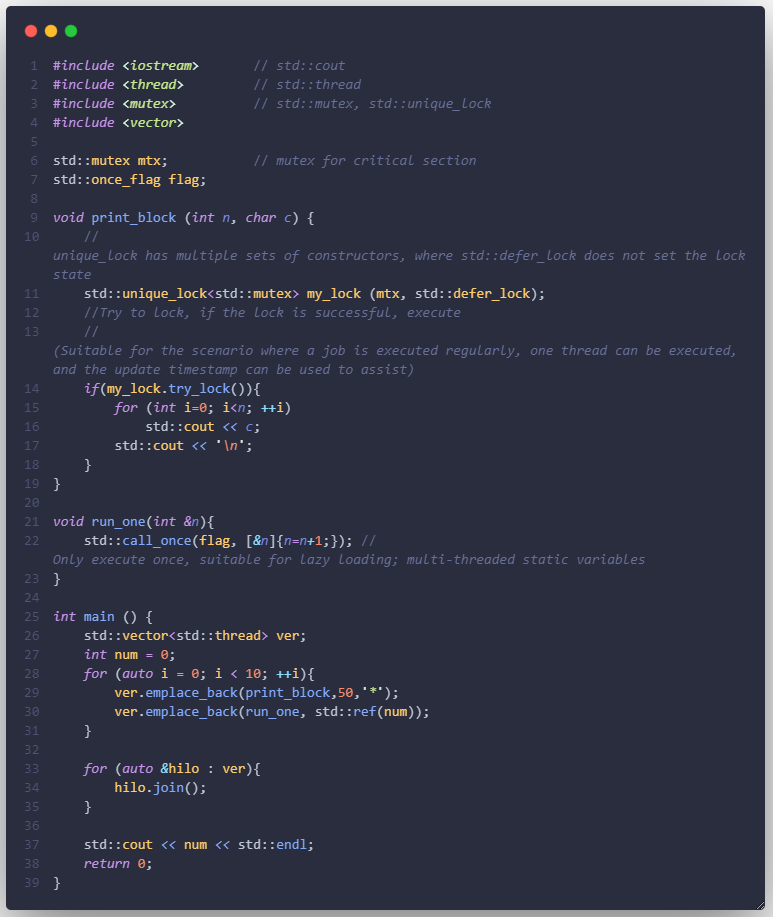
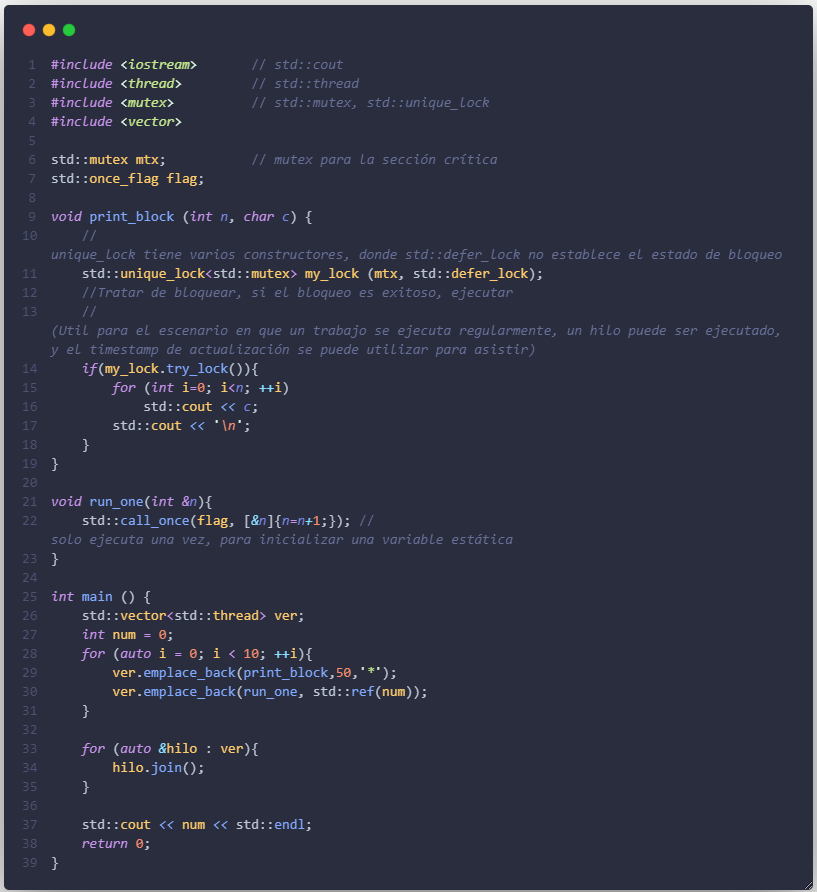
Updating SO labs repo

diff --git a/lab09/code8.cpp b/lab09/code8.cpp
@@ -1,0 +1,55 @@
+#include <chrono>
+#include <iostream>
+#include <mutex>
+#include <random>
+#include <thread>
+#include <utility>
+#include <vector>
+
+typedef long long ll;
+typedef unsigned long long ull;
+
+constexpr long long size= 100000000;   
+
+constexpr long long firBound=  25000000;
+constexpr long long secBound=  50000000;
+constexpr long long thiBound=  75000000;
+constexpr long long fouBound= 100000000;
+    
+std::mutex myMutex;
+
+void sumUp(ull& sum, const std::vector<int>& val, ull beg, ull end){
+    for (auto it= beg; it < end; ++it){
+        std::lock_guard<std::mutex> myLock(myMutex);
+        sum+= val[it];
+    }
+}
+
+int main(){
+    std::cout << std::endl;
+
+    std::vector<int> randValues;
+    randValues.reserve(size);
+
+    std::mt19937 engine;
+    std::uniform_int_distribution<> uniformDist(1,10);
+    for ( long long i=0 ; i< size ; ++i) randValues.push_back(uniformDist(engine));
+
+    ull sum= 0;
+    auto start = std::chrono::system_clock::now();
+
+    std::thread t1(sumUp,std::ref(sum),std::ref(randValues),0,firBound);
+    std::thread t2(sumUp,std::ref(sum),std::ref(randValues),firBound,secBound);
+    std::thread t3(sumUp,std::ref(sum),std::ref(randValues),secBound,thiBound);
+    std::thread t4(sumUp,std::ref(sum),std::ref(randValues),thiBound,fouBound);   
+
+    t1.join();
+    t2.join();
+    t3.join();
+    t4.join();
+    std::chrono::duration<double> dur= std::chrono::system_clock::now() - start;
+    std::cout << "Time for addition " << dur.count() << " seconds" << std::endl;
+    std::cout << "Result: " << sum << std::endl;
+
+    std::cout << std::endl;
+}

diff --git a/lab09/code9.cpp b/lab09/code9.cpp
@@ -1,0 +1,51 @@
+#include <atomic>
+#include <chrono>
+#include <iostream>
+#include <random>
+#include <thread>
+#include <utility>
+#include <vector>
+
+typedef long long ll;
+typedef unsigned long long ull;
+
+constexpr long long size= 100000000;   
+
+constexpr long long firBound=  25000000;
+constexpr long long secBound=  50000000;
+constexpr long long thiBound=  75000000;
+constexpr long long fouBound= 100000000;
+
+void sumUp(std::atomic<ull>& sum, const std::vector<int>& val, ull beg, ull end){
+    for (auto it= beg; it < end; ++it){
+        sum+= val[it];
+    }
+}
+int main(){
+    std::cout << std::endl;
+
+    std::vector<int> randValues;
+    randValues.reserve(size);
+
+    std::mt19937 engine;
+    std::uniform_int_distribution<> uniformDist(1,10);
+    for ( long long i=0 ; i< size ; ++i) randValues.push_back(uniformDist(engine));
+
+    std::atomic<ull> sum(0);
+    auto start = std::chrono::system_clock::now();
+
+    std::thread t1(sumUp,std::ref(sum),std::ref(randValues),0,firBound);
+    std::thread t2(sumUp,std::ref(sum),std::ref(randValues),firBound,secBound);
+    std::thread t3(sumUp,std::ref(sum),std::ref(randValues),secBound,thiBound);
+    std::thread t4(sumUp,std::ref(sum),std::ref(randValues),thiBound,fouBound);   
+
+    t1.join();
+    t2.join();
+    t3.join();
+    t4.join();
+    std::chrono::duration<double> dur= std::chrono::system_clock::now() - start;
+    std::cout << "Time for addition " << dur.count() << " seconds" << std::endl;
+    std::cout << "Result: " << sum << std::endl;
+
+    std::cout << std::endl;
+}

diff --git a/lab09/code7.cpp b/lab09/code7.cpp
@@ -3,14 +3,14 @@
 #include <mutex>          // std::mutex, std::unique_lock
 #include <vector>
 
-std::mutex mtx;           // mutex for critical section
+std::mutex mtx;           // mutex para la sección crítica
 std::once_flag flag;
 
 void print_block (int n, char c) {
-    //unique_lock has multiple sets of constructors, where std::defer_lock does not set the lock state
+    //unique_lock tiene varios constructores, donde std::defer_lock no establece el estado de bloqueo
     std::unique_lock<std::mutex> my_lock (mtx, std::defer_lock);
-    //Try to lock, if the lock is successful, execute
-    //(Suitable for the scenario where a job is executed regularly, one thread can be executed, and the update timestamp can be used to assist)
+    //Tratar de bloquear, si el bloqueo es exitoso, ejecutar
+    //(Util para el escenario en que un trabajo se ejecuta regularmente, un hilo puede ser ejecutado, y el timestamp de actualización se puede utilizar para asistir)
     if(my_lock.try_lock()){
         for (int i=0; i<n; ++i)
             std::cout << c;
@@ -19,7 +19,7 @@ void print_block (int n, char c) {
 }
 
 void run_one(int &n){
-    std::call_once(flag, [&n]{n=n+1;}); //Only execute once, suitable for lazy loading; multi-threaded static variables
+    std::call_once(flag, [&n]{n=n+1;}); //solo ejecuta una vez, para inicializar una variable estática
 }
 
 int main () {

diff --git a/lab10/Code6.java b/lab10/Code6.java
@@ -1,0 +1,55 @@
+import java.util.concurrent.Semaphore;
+
+public class Code6 {
+    public static void main(String[ ] args) {
+        Task t1 = new Task();
+        t1.setID(1); t1.setNumIter(10);
+        Thread worker1 = new Thread(t1);
+
+        Task t2 = new Task();
+        t2.setID(2); t2.setNumIter(10);
+        Thread worker2 = new Thread(t2);
+
+        worker1.start();
+        worker2.start();
+        
+        try {
+            worker1.join();
+            worker2.join();
+        }
+        catch (InterruptedException ie) { }
+    }
+}
+
+class Task implements Runnable {
+    private int ID;
+    private int numIter;
+    private Semaphore sem;
+    
+    public Task(){
+        sem = new Semaphore(1);
+    }
+    
+    public void run( ) {
+        work();
+    }
+    private void work() {
+        for(int i=0; i< numIter; i++) {
+            try {
+                sem.acquire();
+
+                System.out.print( ID);
+                for(int j = 0; j<10000; j++) { } //delay
+                System.out.print(": Hola Mundo ");
+                System.out.println(i);
+            }
+            catch (InterruptedException ie) { }
+            
+            finally {
+                sem.release();
+            }
+        }
+    }
+    public void setID(int id) { ID = id; }
+    public void setNumIter(int iter) { numIter = iter; }
+}

diff --git a/lab10/Code5.java b/lab10/Code5.java
@@ -1,0 +1,52 @@
+import java.util.concurrent.locks.ReentrantLock;
+
+public class Code5 {
+    public static void main(String[ ] args) {
+        Task t1 = new Task();
+        t1.setID(1); t1.setNumIter(10);
+        Thread worker1 = new Thread(t1);
+
+        Task t2 = new Task();
+        t2.setID(2); t2.setNumIter(10);
+        Thread worker2 = new Thread(t2);
+
+        worker1.start();
+        worker2.start();
+        
+        try {
+            worker1.join();
+            worker2.join();
+        }
+        catch (InterruptedException ie) { }
+    }
+}
+
+class Task implements Runnable {
+    private int ID;
+    private int numIter;
+    private ReentrantLock lock;
+    
+    public Task(){
+        lock = new ReentrantLock();
+    }
+
+    public void run( ) {
+        work();
+    }
+    private void work() {
+        for(int i=0; i< numIter; i++) {
+            lock.lock();
+            try {
+                System.out.print( ID);
+                for(int j = 0; j<10000; j++) { } //delay
+                System.out.print(": Hola Mundo ");
+                System.out.println(i);
+            }
+            finally {
+                lock.unlock();
+            }
+        }
+    }
+    public void setID(int id) { ID = id; }
+    public void setNumIter(int iter) { numIter = iter; }
+}

diff --git a/lab10/Code4.java b/lab10/Code4.java
@@ -1,0 +1,41 @@
+public class Code4 {
+    public static void main(String[ ] args) {
+        Task t1 = new Task();
+        t1.setID(1); t1.setNumIter(10);
+        Thread worker1 = new Thread(t1);
+
+        Task t2 = new Task();
+        t2.setID(2); t2.setNumIter(10);
+        Thread worker2 = new Thread(t2);
+
+        worker1.start();
+        worker2.start();
+        
+        try {
+            worker1.join();
+            worker2.join();
+        }
+        catch (InterruptedException ie) { }
+    }
+}
+
+class Task implements Runnable {
+    private int ID;
+    private int numIter;
+    
+    public void run( ) {
+        work();
+    }
+    private void work() {
+        for(int i=0; i< numIter; i++) {
+            synchronized(System.out){
+                System.out.print( ID);
+                for(int j = 0; j<10000; j++) { } //delay
+                System.out.print(": Hola Mundo ");
+                System.out.println(i);
+            }
+        }
+    }
+    public void setID(int id) { ID = id; }
+    public void setNumIter(int iter) { numIter = iter; }
+}

diff --git a/lab10/Code3.java b/lab10/Code3.java
@@ -1,0 +1,39 @@
+public class Code3 {
+    public static void main(String[ ] args) {
+        Task t1 = new Task();
+        t1.setID(1); t1.setNumIter(10);
+        Thread worker1 = new Thread(t1);
+
+        Task t2 = new Task();
+        t2.setID(2); t2.setNumIter(10);
+        Thread worker2 = new Thread(t2);
+
+        worker1.start();
+        worker2.start();
+        
+        try {
+            worker1.join();
+            worker2.join();
+        }
+        catch (InterruptedException ie) { }
+    }
+}
+
+class Task implements Runnable {
+    private int ID;
+    private int numIter;
+    
+    public void run( ) {
+        work();
+    }
+    private void work() {
+        for(int i=0; i< numIter; i++) {
+            System.out.print( ID);
+            for(int j = 0; j<10000; j++) { } //delay
+            System.out.print(": Hola Mundo ");
+            System.out.println(i);
+        }
+    }
+    public void setID(int id) { ID = id; }
+    public void setNumIter(int iter) { numIter = iter; }
+}

diff --git a/lab10/Code2.java b/lab10/Code2.java
@@ -1,0 +1,34 @@
+public class Code2 {
+    public static void main(String[ ] args) {
+        Task t1 = new Task();
+        t1.setID(1); t1.setNumIter(10);
+        Thread worker1 = new Thread(t1);
+
+        Task t2 = new Task();
+        t2.setID(2); t2.setNumIter(10);
+        Thread worker2 = new Thread(t2);
+        
+        worker1.start();
+        worker2.start();
+        
+        try {
+            worker1.join();
+            worker2.join();
+        }
+        catch (InterruptedException ie) { }
+    }
+}
+class Task implements Runnable {
+    private int ID;
+    private int numIter;
+    public void run( ) {
+        work();
+    }
+    private void work() {
+        for(int i=0; i< numIter; i++) {
+            System.out.print( ID + ": Hola Mundo " + i);
+        }
+    }
+    public void setID(int id) { ID = id; }
+    public void setNumIter(int iter) { numIter = iter; }
+}

diff --git a/lab10/Code1.java b/lab10/Code1.java
@@ -1,0 +1,17 @@
+public class Code1 {
+    public static void main(String[ ] args) {
+        Thread worker = new Thread(new Task());
+        worker.start();
+        try {
+            worker.join();
+        }
+        catch (InterruptedException ie) { }
+    }
+}
+
+class Task implements Runnable
+{
+    public void run() {
+        System.out.println("Hola Mundo");
+    }
+}
